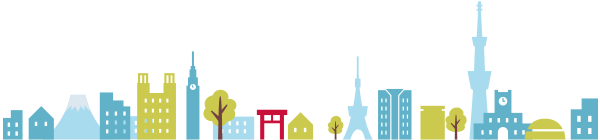
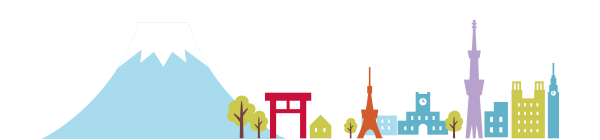
refs #UMA-280 雲とかフッターのロゴサイズとか修正

Changed region(s): [[0.0, 0.0, 1.0, 1.0]]

diff --git a/pycon/static/less/site.less b/pycon/static/less/site.less
@@ -754,9 +754,19 @@ body.home {
     }
   }
   .sky {
-    // background-color: @blueSky;
     padding-top: 50px;
     position: relative;
+
+    // background-color: @blueSky;
+    background: #cbeced; /* Old browsers */
+    background: -moz-linear-gradient(top,  #ffffff 13%, #edfaff 52%, #cbeced 100%); /* FF3.6+ */
+    background: -webkit-gradient(linear, left top, left bottom, color-stop(13%,#ffffff), color-stop(52%,#edfaff), color-stop(100%,#cbeced)); /* Chrome,Safari4+ */
+    background: -webkit-linear-gradient(top,  #ffffff 13%,#edfaff 52%,#cbeced 100%); /* Chrome10+,Safari5.1+ */
+    background: -o-linear-gradient(top,  #ffffff 13%,#edfaff 52%,#cbeced 100%); /* Opera 11.10+ */
+    background: -ms-linear-gradient(top,  #ffffff 13%,#edfaff 52%,#cbeced 100%); /* IE10+ */
+    background: linear-gradient(to bottom,  #ffffff 13%,#edfaff 52%,#cbeced 100%); /* W3C */
+    filter: progid:DXImageTransform.Microsoft.gradient( startColorstr='#ffffff', endColorstr='#cbeced',GradientType=0 ); /* IE6-9 */
+
     .logo {
       background: url("../img/pycon2014-logo.png") no-repeat scroll 0 0 transparent;
       display: block;
@@ -812,28 +822,23 @@ body.home {
       li {
         padding: 10px 0;
         display: inline-block;
-        background-color: @blueSky;
+        // background-color: @blueSky;
+        background-color: #EEE89E;
         .border-radius(8px);
-        border: 4px solid @white;
+        // border: 4px solid @white;
+        border: 4px solid #E5A173;
         line-height: 24px;
         text-align: center;
         width: 160px;
       }
+      li + li { margin-left: 10px; }
     }
   }
   .city {
     position: relative;
-    // background-color: @blueSky;
     height: 225px;
-    background: #ffffff; /* Old browsers */
-    background: -moz-linear-gradient(top,  #ffffff 13%, #edfaff 52%, #cbeced 100%); /* FF3.6+ */
-    background: -webkit-gradient(linear, left top, left bottom, color-stop(13%,#ffffff), color-stop(52%,#edfaff), color-stop(100%,#cbeced)); /* Chrome,Safari4+ */
-    background: -webkit-linear-gradient(top,  #ffffff 13%,#edfaff 52%,#cbeced 100%); /* Chrome10+,Safari5.1+ */
-    background: -o-linear-gradient(top,  #ffffff 13%,#edfaff 52%,#cbeced 100%); /* Opera 11.10+ */
-    background: -ms-linear-gradient(top,  #ffffff 13%,#edfaff 52%,#cbeced 100%); /* IE10+ */
-    background: linear-gradient(to bottom,  #ffffff 13%,#edfaff 52%,#cbeced 100%); /* W3C */
-    filter: progid:DXImageTransform.Microsoft.gradient( startColorstr='#ffffff', endColorstr='#cbeced',GradientType=0 ); /* IE6-9 */
-
+    // background-color: @blueSky;
+    background-color: #cbeced;
 
     .tokyo {
       position: relative;
@@ -858,18 +863,18 @@ body.home {
     position: relative;
     padding-top: 25px;
     #one-cloud {
-      width: 99px;
-      height: 53px;
+      width: 163px;
+      height: 58px;
       position: absolute;
-      right: 175px;
-      top: -40px;
+      right: 115px;
+      top: -10px;
       background: url("../img/one-cloud.png") no-repeat transparent;
     }
     #two-clouds {
-      width: 173px;
-      height: 63px;
-      top: -40px;
-      left: 125px;
+      width: 229px;
+      height: 104px;
+      top: -60px;
+      left: 45px;
       position: absolute;
       background: url("../img/two-clouds.png") no-repeat transparent;
     }
@@ -1179,7 +1184,7 @@ body.cms-page {
   Overrides styles for devices with a
   device-pixel-ratio of 2+, such as iPhone 4.
 =========================================== */
-// TODO ★1>2
+// TODO 1>2
 @media
   only screen and (-webkit-min-device-pixel-ratio: 2),
   only screen and (min-device-pixel-ratio: 2) {

diff --git a/pycon/static/less/responsive-site.less b/pycon/static/less/responsive-site.less
@@ -33,8 +33,8 @@ body {
 		}
 		a.logo img {
 			@media (max-width: @breakMobileLandscape) {
-				height: 25px;
-				width: 275px;
+				// height: 25px;
+				// width: 275px;
 			}
 		}
 	}
@@ -197,12 +197,12 @@ body.home {
 		.clouds {
 			#one-cloud {
 				@media (max-width: @breakDesktop) {
-					right: 25px;
+					right: 0px;
 				}
 		    }
 		    #two-clouds {
 		    	@media (max-width: @breakDesktop) {
-		    		left: 0;
+		    		left: -52px;
 		    	}
 		    }
 			@media (max-width: @breakTablet) {
@@ -327,6 +327,21 @@ body.sponsors {
 				min-height: 250px;
 				height: auto;
 			}
+		}
+	}
+}
+/* home
+======================= */
+body.home {
+	.city .tokyo {
+		@media (max-width: @breakMobileLandscape) {
+		margin-top: -70px;
+		background-size: 420px auto;
+		}
+	}
+		.city .lawn {
+		@media (max-width: @breakMobileLandscape) {
+		padding-top: 0;
 		}
 	}
 }

diff --git a/pycon/templates/homepage.html b/pycon/templates/homepage.html
@@ -63,12 +63,11 @@
         </div>
         <div class="city">
             <div class="container">
-                {% comment %}
+
                 <div class="clouds">
                     <div id="two-clouds"></div>
                     <div id="one-cloud"></div>
                 </div>
-                {% endcomment %}
 
                 <div class="tokyo"></div>
             </div>
